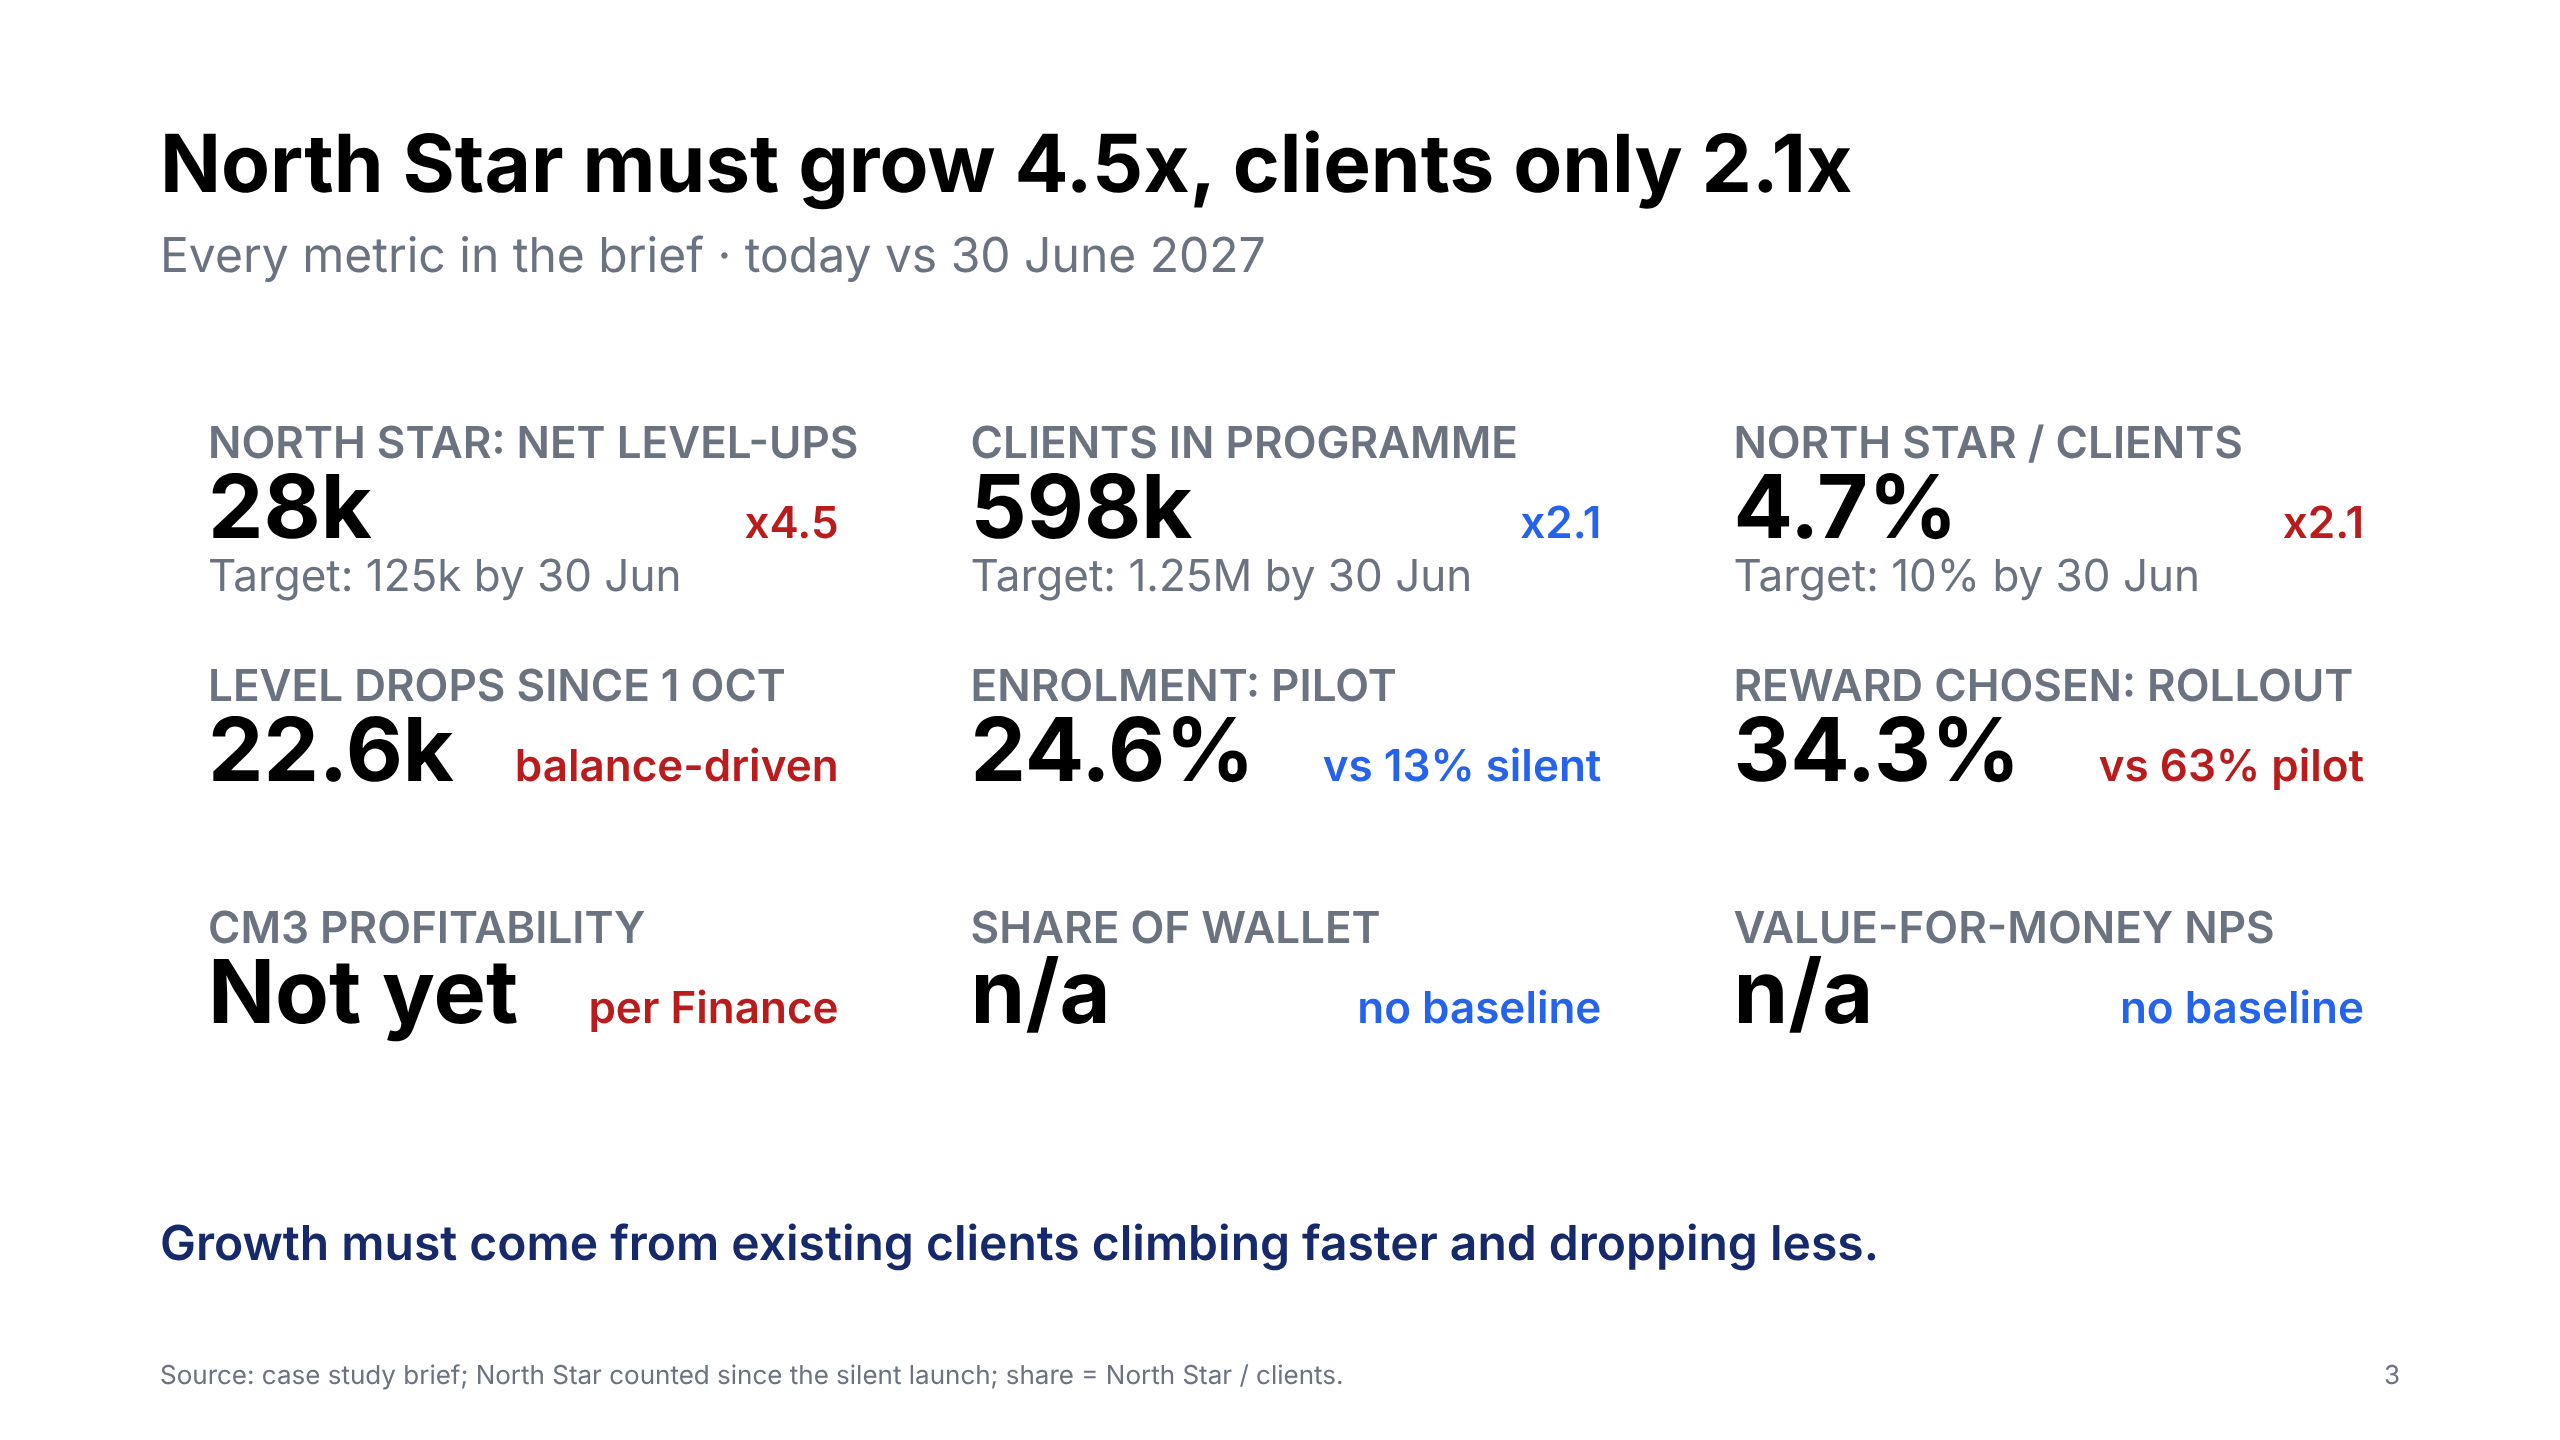
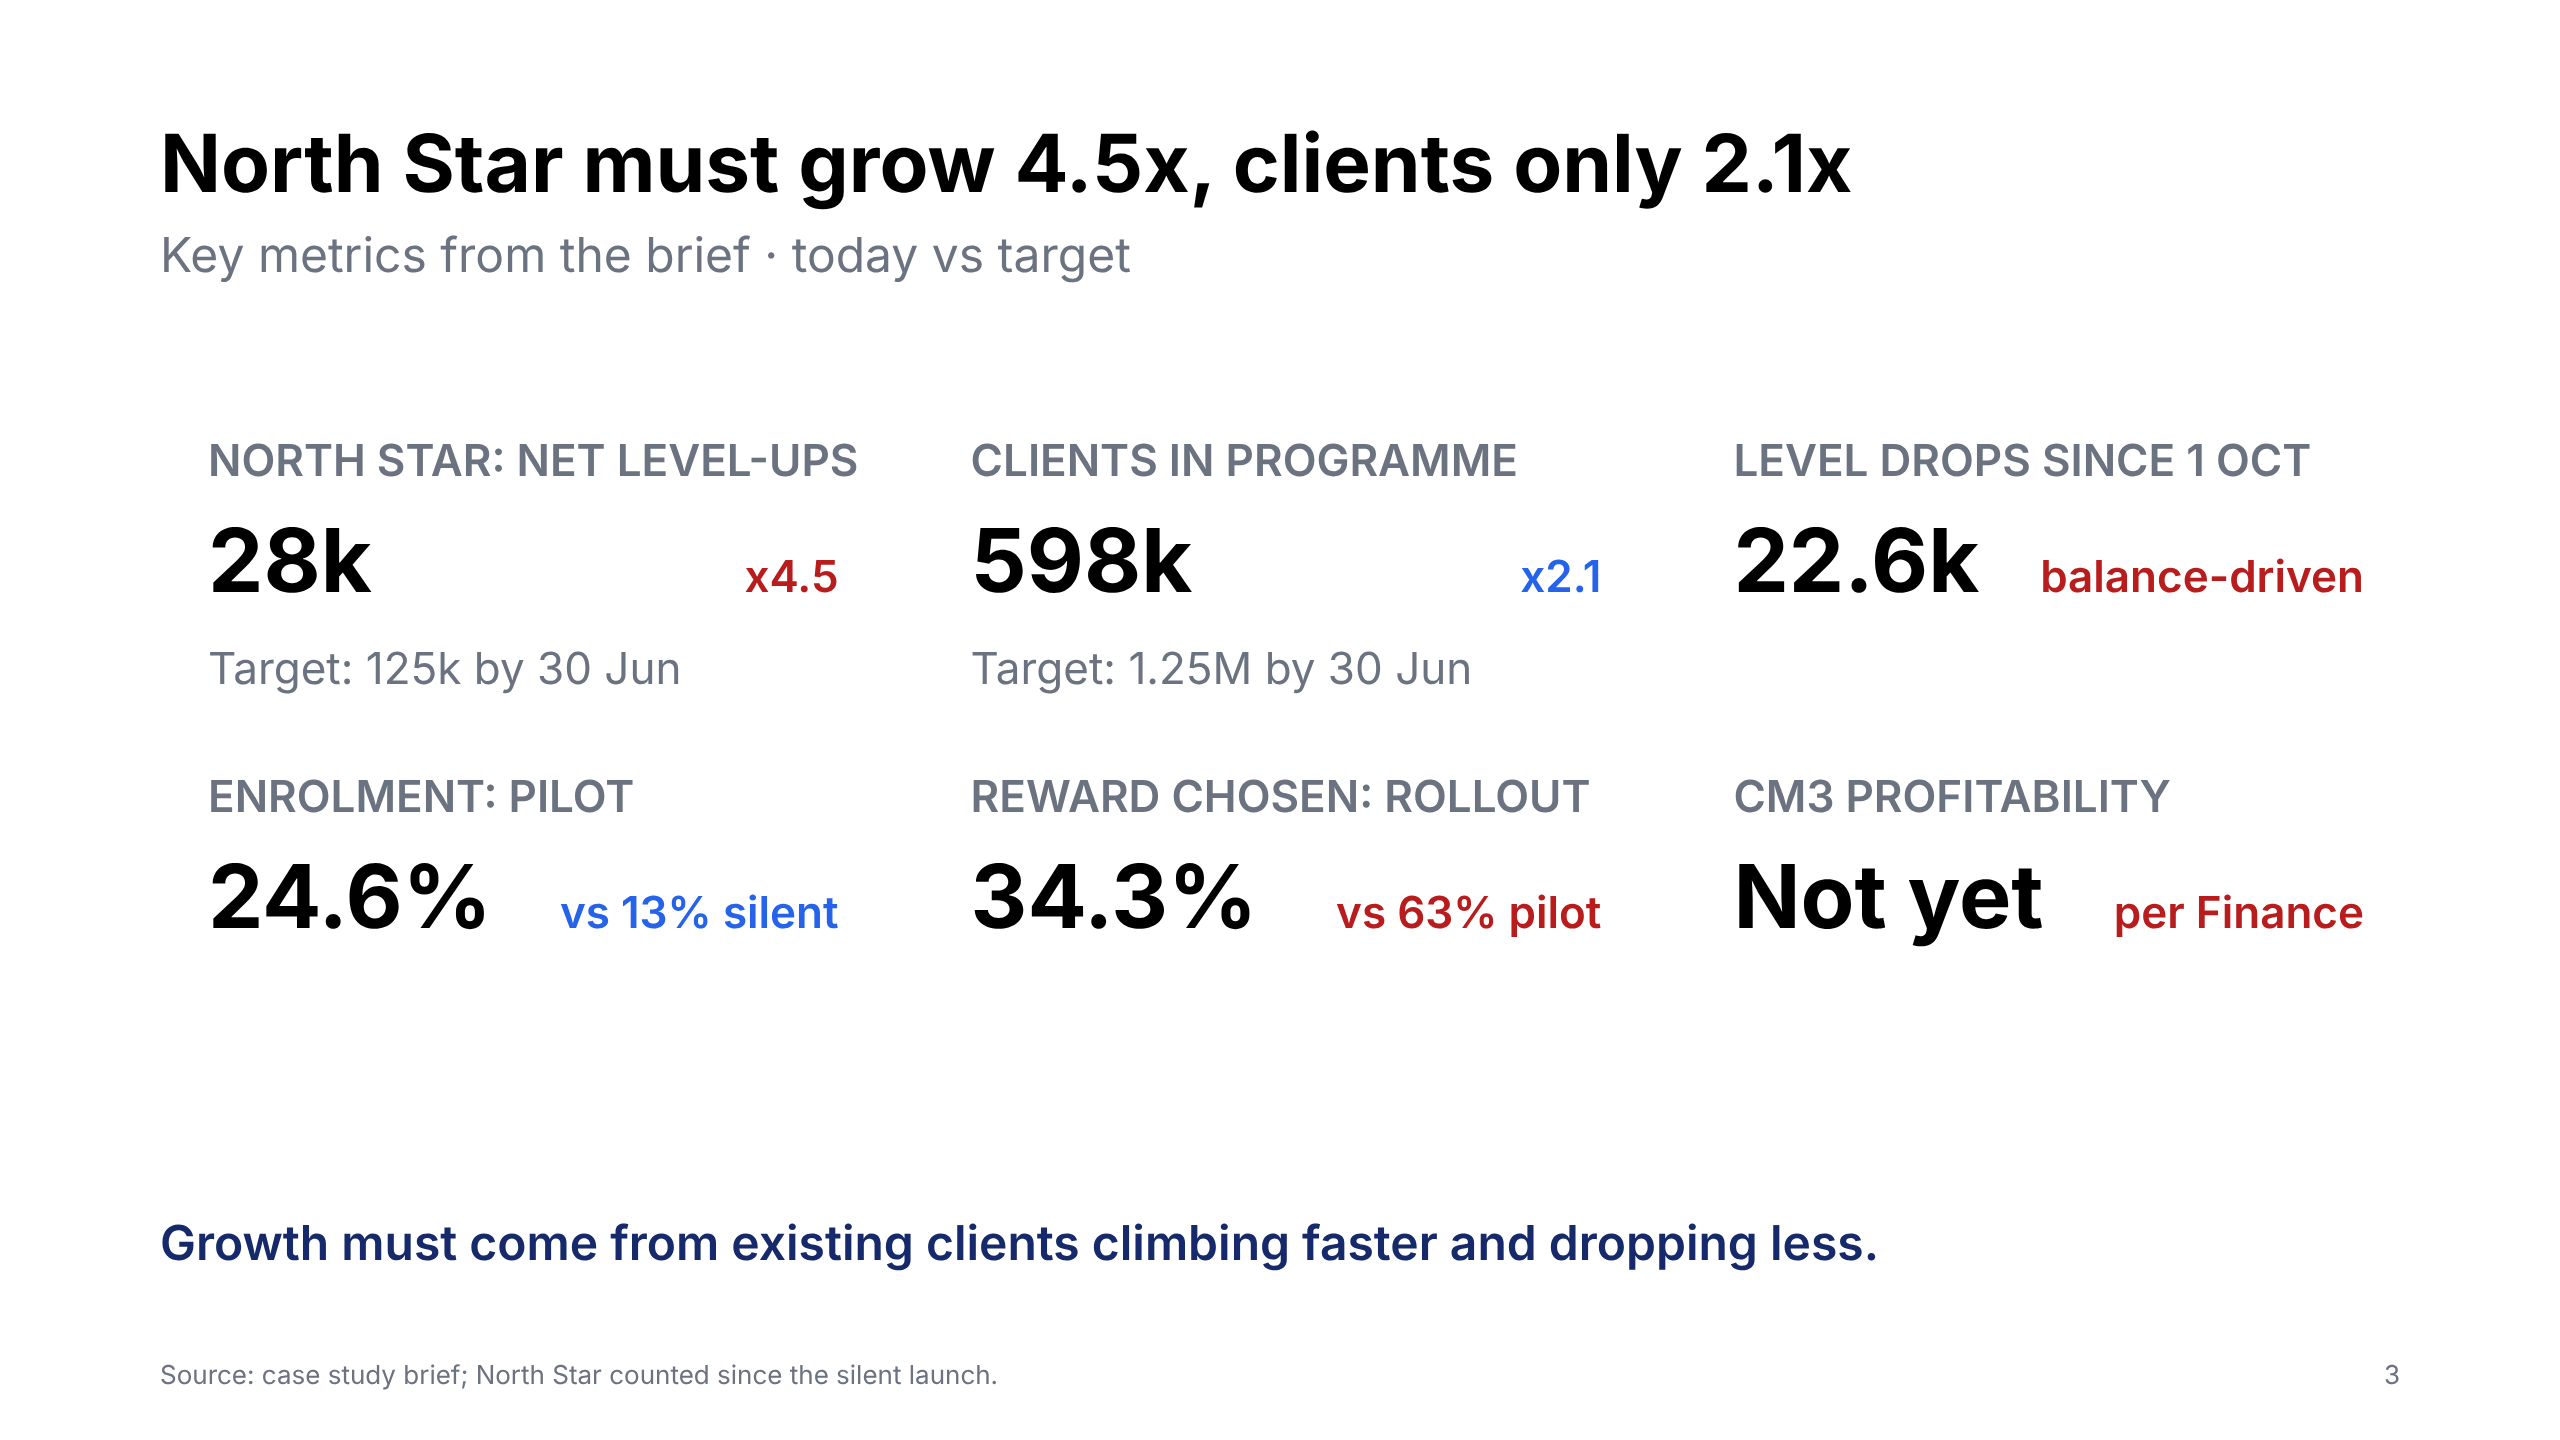
Deck: simplify metrics slide to six key metrics
Claude-Session: https://claude.ai/code/session_019gmTZ7bgw9zuXE3s7xf3V8

diff --git a/deck/pi-case/build_specs.py b/deck/pi-case/build_specs.py
@@ -20,21 +20,18 @@ add("02-users", {"pattern":"summary_strip","headline":"P&I serves three users, a
  "notes":["Before priorities, who are we building for? Three users.","First, people who decide: the squads, domain leadership, Finance and the concept council. They need one truth, opportunities and proof of value. We serve them with reporting, insights and regular opportunity finding.","Second, people who act: clients in George and bankers in FIT+ and at branches. They need the right next step and the right message. That is Brain, the segments, the at-risk list, and personas, which test the message before it reaches real clients.","Third, and new: AI itself. Brain, agentic CRM and AI assistants consume our data too. So everything we build must be readable by machines: metric definitions available through an API, every recommendation and its outcome logged, and an evaluation harness so we can test quality and compliance and switch models without rebuilding. These are design principles for how we build the top 5, not an extra workstream."]})
 
 add("03-metrics", {"pattern":"kpi_scorecard","headline":"North Star must grow 4.5x, clients only 2.1x",
- "subline":"Every metric in the brief · today vs 30 June 2027",
+ "subline":"Key metrics from the brief · today vs target",
  "columns":3,
  "metrics":[
   {"label":"NORTH STAR: NET LEVEL-UPS","value":"28k","target":"125k by 30 Jun","trend":"x4.5","status":"risk"},
   {"label":"CLIENTS IN PROGRAMME","value":"598k","target":"1.25M by 30 Jun","trend":"x2.1"},
-  {"label":"NORTH STAR / CLIENTS","value":"4.7%","target":"10% by 30 Jun","trend":"x2.1","status":"risk"},
   {"label":"LEVEL DROPS SINCE 1 OCT","value":"22.6k","trend":"balance-driven","status":"risk"},
   {"label":"ENROLMENT: PILOT","value":"24.6%","trend":"vs 13% silent"},
   {"label":"REWARD CHOSEN: ROLLOUT","value":"34.3%","trend":"vs 63% pilot","status":"risk"},
-  {"label":"CM3 PROFITABILITY","value":"Not yet","trend":"per Finance","status":"risk"},
-  {"label":"SHARE OF WALLET","value":"n/a","trend":"no baseline"},
-  {"label":"VALUE-FOR-MONEY NPS","value":"n/a","trend":"no baseline"}],
+  {"label":"CM3 PROFITABILITY","value":"Not yet","trend":"per Finance","status":"risk"}],
  "annotation":"Growth must come from existing clients climbing faster and dropping less.",
- "page_number":3,"source":"Source: case study brief; North Star counted since the silent launch; share = North Star / clients.",
- "notes":["All the numbers from the brief on one page. Top row is the target: the North Star must grow 4.5 times, from 28 thousand to 125 thousand net level-ups, while the client base only doubles. So the share of clients who level up must more than double, from 4.7 to 10 percent.","Middle row is behaviour. 22.6 thousand clients dropped a level since October, largely because points follow account balances. The targeted pilot enrolled 24.6 percent against 13 percent at the silent start, and reward choice fell from 63 percent in the pilot to 34 in the rollout.","Bottom row is value. Finance says the programme is not yet profitable, and for share of wallet and value-for-money NPS the brief gives no baseline. That is exactly why one source of truth is my first priority."]})
+ "page_number":3,"source":"Source: case study brief; North Star counted since the silent launch.",
+ "notes":["The key numbers from the brief. The North Star must grow 4.5 times, from 28 thousand to 125 thousand net level-ups, while the client base only doubles. So the share of clients who level up must more than double, from about 5 to 10 percent.","22.6 thousand clients dropped a level since October, largely because points follow account balances, and the savings rate moves with the level.","The targeted pilot enrolled 24.6 percent against 13 at the silent start, and reward choice fell from 63 percent in the pilot to 34 in the rollout. Execution matters.","And Finance says the programme is not yet profitable. For share of wallet and value-for-money NPS we have targets but no baseline, which is why one source of truth comes first."]})
 
 add("02-answer", {"pattern":"summary_strip","headline":"P&I should make the numbers trustworthy before scaling AI",
  "subline":"The proposal in one page · Five priorities in three moves",
